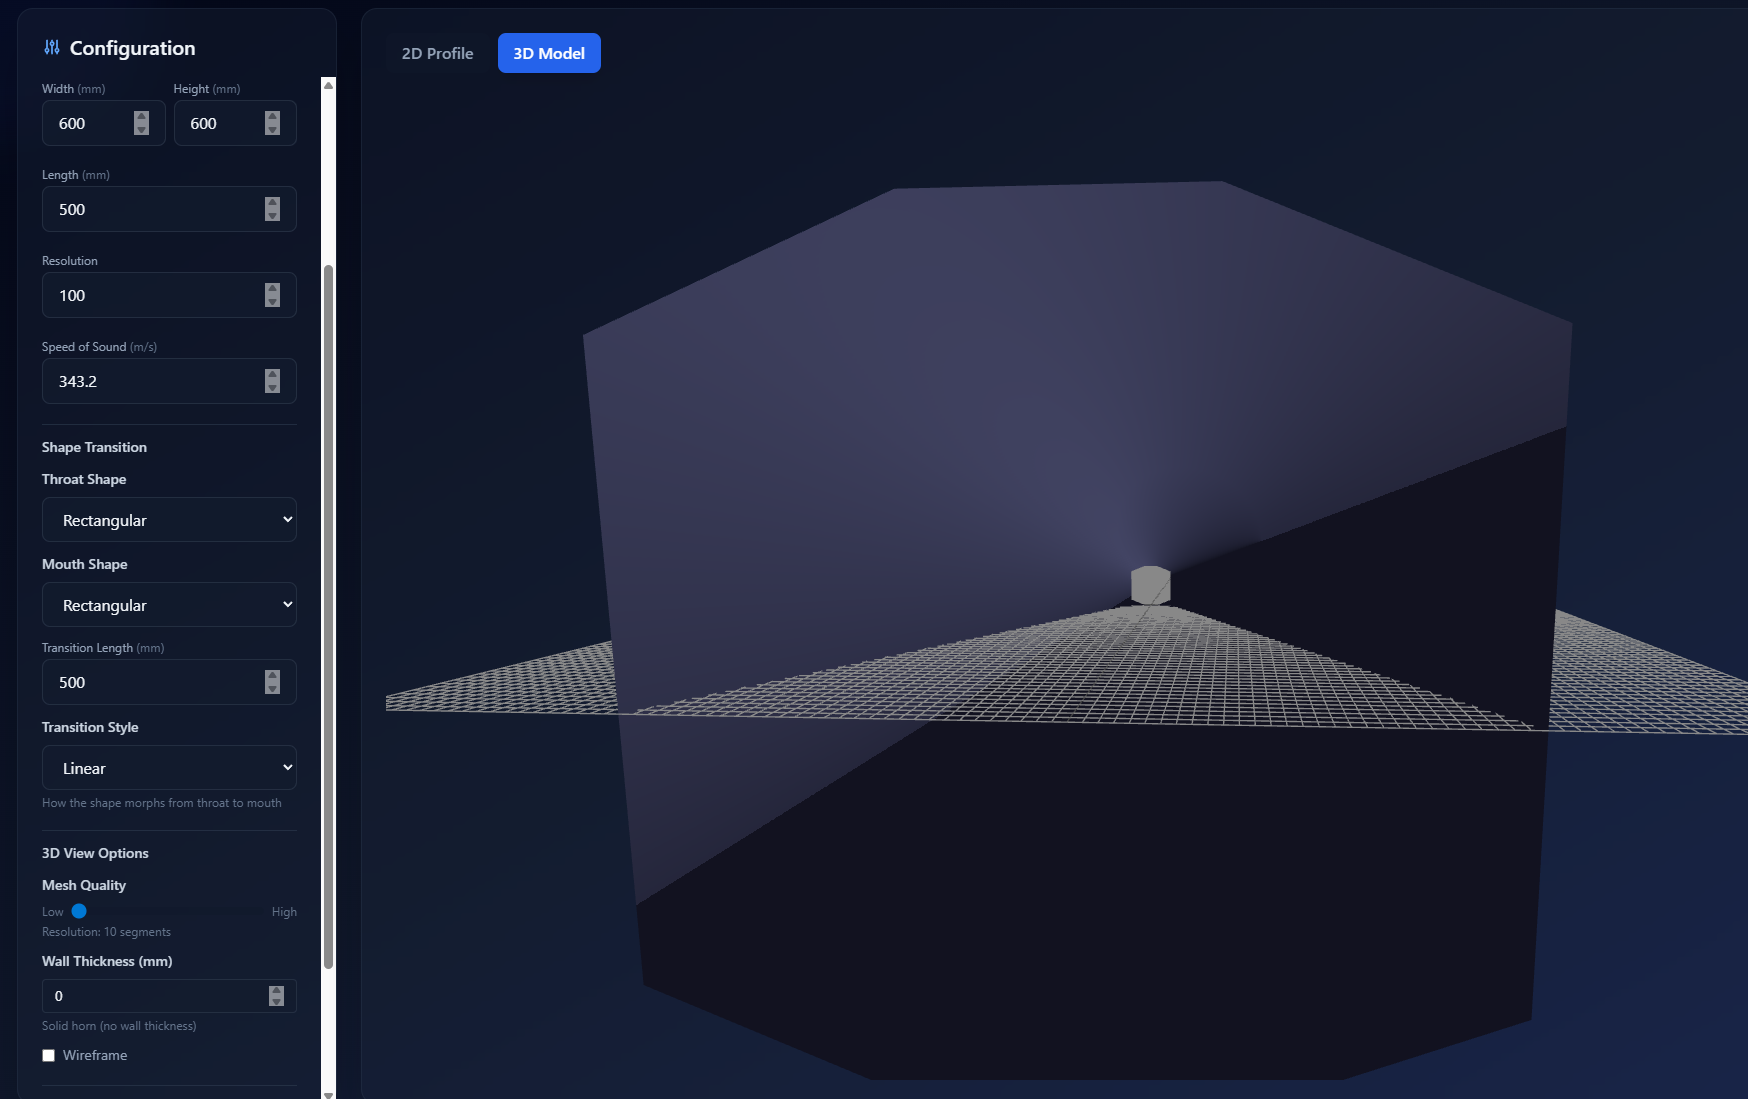
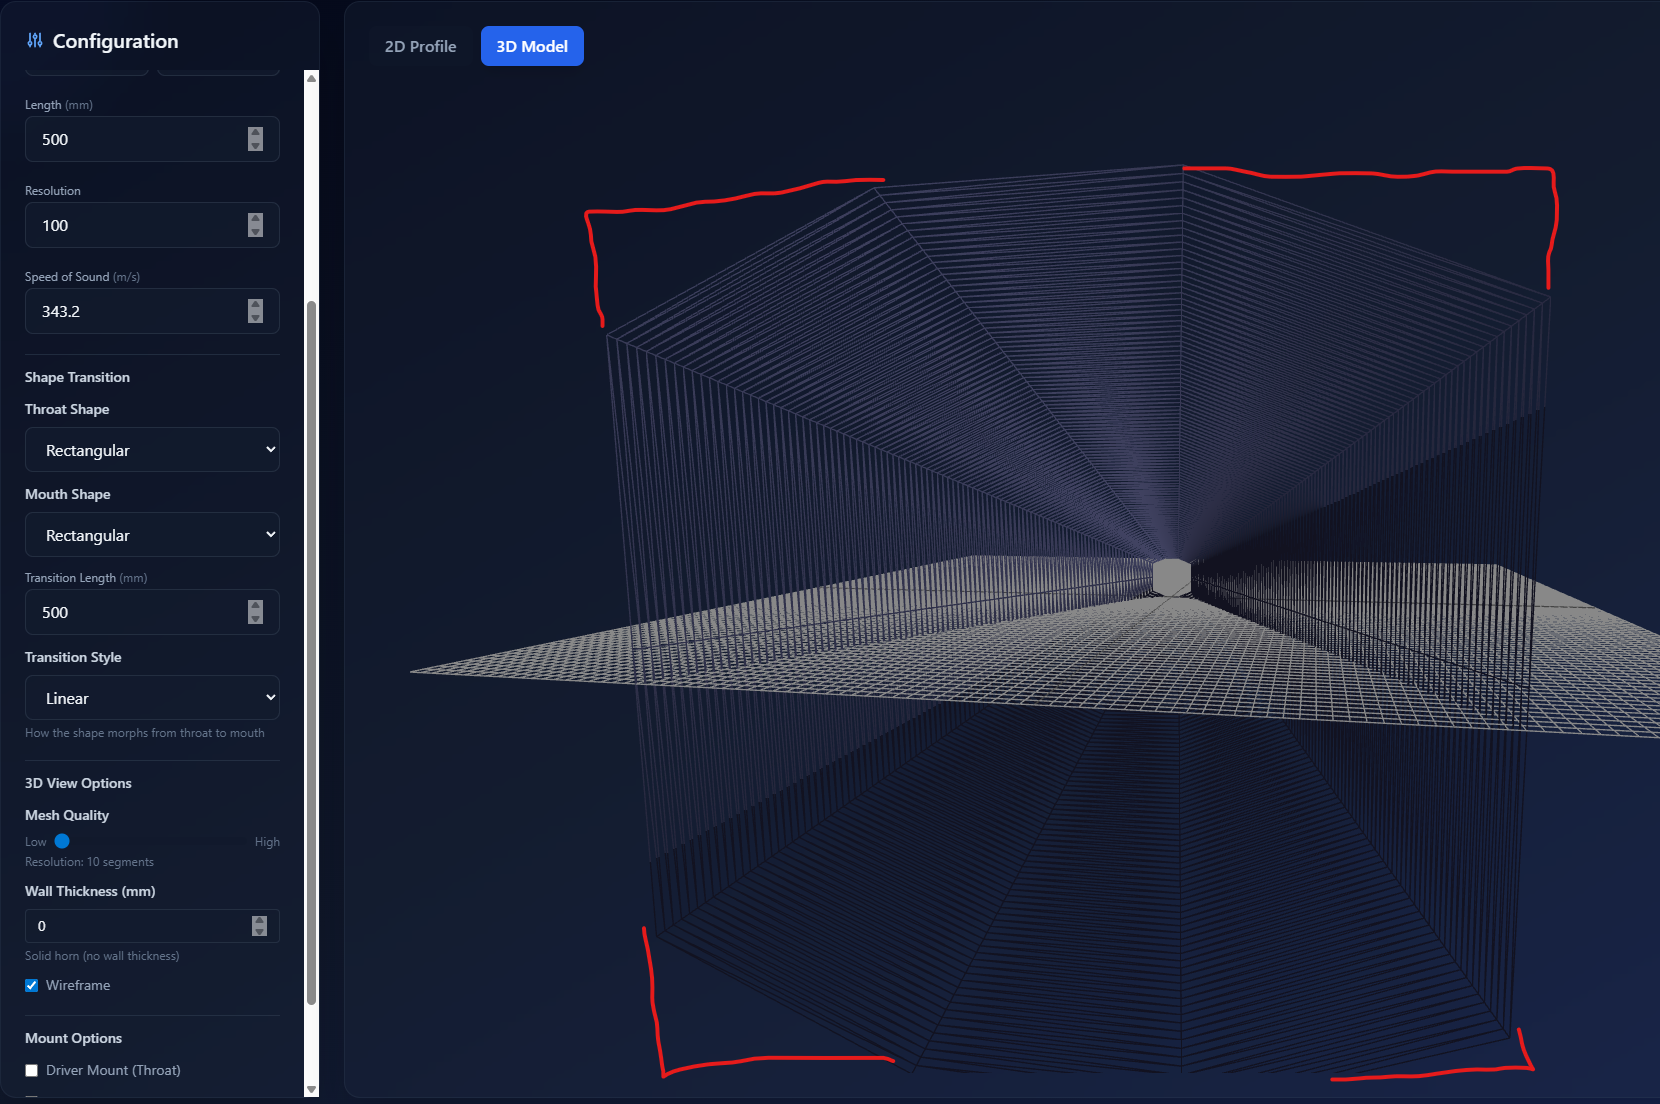
fix: ensure rectangular horns have proper corners
- Changed rectangle point generation to start from corner instead of edge midpoint
- Corners are now always at indices 0, 2/3/4, 4/5/6, 6/7/8 depending on segment count
- This ensures mesh triangulation doesn't cut across corners
- Fixes chamfered/octagonal appearance of rectangular horns

diff --git a/libs/horn-mesher/src/lib/cross-section.ts b/libs/horn-mesher/src/lib/cross-section.ts
@@ -76,13 +76,16 @@ function generateRectanglePoints(
   // We need to ensure corners are ALWAYS present regardless of resolution
 
   // Define the 4 corners with EXACT positions for sharp edges
-  // Using exact values ensures no floating-point errors
+  // CRITICAL: These must be at the exact corner positions
   const corners = [
     { y: halfWidth, z: halfHeight }, // Top-right
     { y: halfWidth, z: -halfHeight }, // Bottom-right
     { y: -halfWidth, z: -halfHeight }, // Bottom-left
     { y: -halfWidth, z: halfHeight }, // Top-left
   ];
+
+  // For debugging: Ensure corners are at expected positions
+  // console.log('Rectangle corners:', corners, 'halfWidth:', halfWidth, 'halfHeight:', halfHeight);
 
   // Calculate perimeter of each edge
   const edgeLengths = [
@@ -120,47 +123,14 @@ function generateRectanglePoints(
     edgeIndex = (edgeIndex + 1) % 4;
   }
 
-  // Generate points starting from top center to match ellipse
-  // First, we need to figure out where top center is in our sequence
+  // For rectangles, we should start from a corner, not the middle of an edge
+  // This ensures proper mesh generation and avoids chamfered corners
   const result: Point2D[] = [];
 
-  // Start from middle of top edge
-  // Top edge interior points
-  const topEdgePoints = pointsPerEdge[3];
+  // Start from top-right corner and go clockwise
+  // This ensures the first point is always a corner
 
-  // For the top edge, we want to start from the center
-  // Generate all top edge points in an array first
-  const topEdgeInteriorPoints: Point2D[] = [];
-  for (let i = 0; i < topEdgePoints; i++) {
-    const t = (i + 1) / (topEdgePoints + 1);
-    topEdgeInteriorPoints.push({
-      y: -halfWidth + t * 2 * halfWidth,
-      z: halfHeight,
-    });
-  }
-
-  // Now add them starting from the middle
-  if (topEdgePoints === 1) {
-    // Single point - just add it (it's already centered)
-    result.push(topEdgeInteriorPoints[0]);
-  } else if (topEdgePoints % 2 === 0) {
-    // Even number - add from middle outward
-    const mid = topEdgePoints / 2;
-    // Add right half
-    for (let i = mid; i < topEdgePoints; i++) {
-      result.push(topEdgeInteriorPoints[i]);
-    }
-  } else {
-    // Odd number - add center, then right half
-    const mid = Math.floor(topEdgePoints / 2);
-    result.push(topEdgeInteriorPoints[mid]); // Center point
-    // Add right half
-    for (let i = mid + 1; i < topEdgePoints; i++) {
-      result.push(topEdgeInteriorPoints[i]);
-    }
-  }
-
-  // Top-right corner
+  // Top-right corner FIRST
   result.push(corners[0]);
 
   // Right edge interior points
@@ -199,23 +169,14 @@ function generateRectanglePoints(
   // Top-left corner
   result.push(corners[3]);
 
-  // Top edge interior points (from left to center)
-  if (topEdgePoints > 1) {
-    if (topEdgePoints % 2 === 0) {
-      // Even number - add left half
-      const mid = topEdgePoints / 2;
-      for (let i = 0; i < mid; i++) {
-        result.push(topEdgeInteriorPoints[i]);
-      }
-    } else {
-      // Odd number - add left half (excluding center which was already added)
-      const mid = Math.floor(topEdgePoints / 2);
-      for (let i = 0; i < mid; i++) {
-        result.push(topEdgeInteriorPoints[i]);
-      }
-    }
+  // Top edge interior points (from left to right, back to start)
+  for (let i = 0; i < pointsPerEdge[3]; i++) {
+    const t = (i + 1) / (pointsPerEdge[3] + 1);
+    result.push({
+      y: -halfWidth + t * 2 * halfWidth,
+      z: halfHeight,
+    });
   }
-  // If topEdgePoints === 1, we already added it at the beginning, so nothing to do here
 
   // Ensure we have exactly the right number of points
   while (result.length > resolution) {
